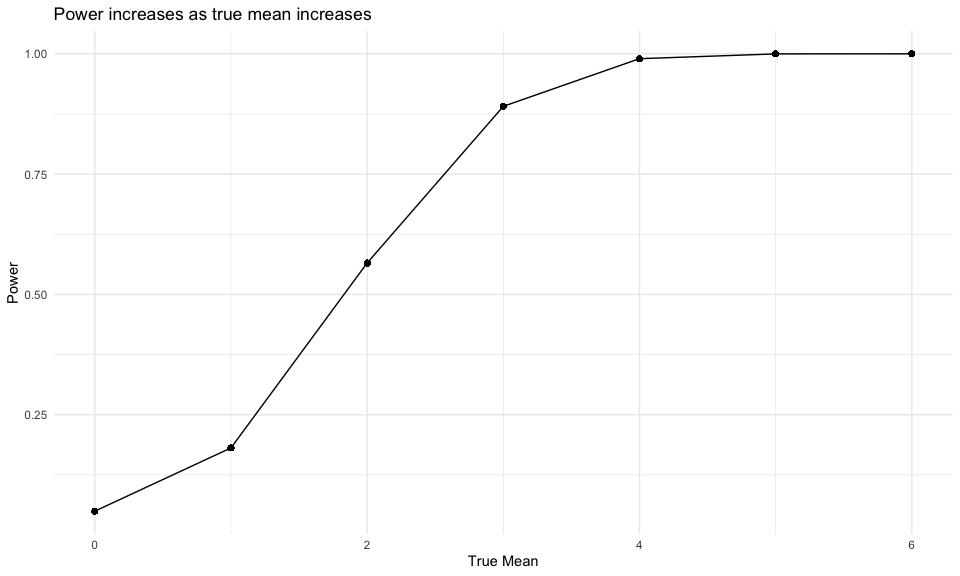
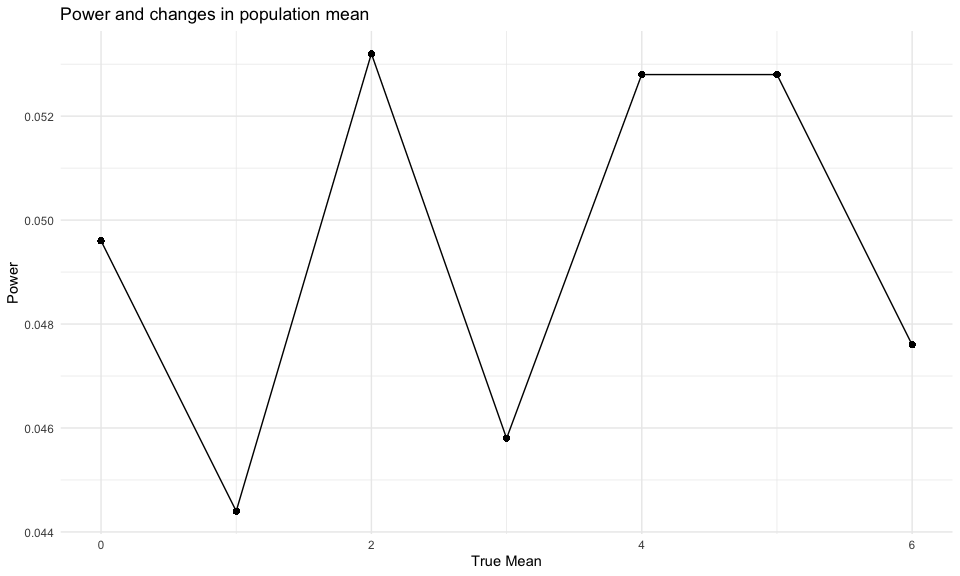
fixed map function that was incorrectly looping the mu for the ttests. This changed the interpretation of the graphs produced.

diff --git a/p8105_hw5_crd2162.md b/p8105_hw5_crd2162.md
@@ -180,15 +180,14 @@ print(subject_graph)
 In this problem, we will conduct a simulation to explore power in a one
 sample t-test.
 
-First, I will write a function called sim_power to create a random
+First, I will write a function called `sim_power` to create a random
 sample from a normal distribution with an n of 30, a sigma of 5, and a
-mu of 0. This function also calculates the sample mean (mu_hat) and
-sample sigma (sigma_hat). The sample is then returned as a tibble.
+mu of 0. This function also calculates the sample mean (`mu_hat`) and
+sample sigma (`sigma_hat`). The sample is then returned as a tibble.
 
 ``` r
 set.seed(1)
 
-#write a function to define parameters
 sim_power = function(n = 30, sigma = 5, mu = 0){
   sim_data = tibble(
     x = rnorm(n, mean = mu, sd = sigma),
@@ -206,10 +205,9 @@ sim_power = function(n = 30, sigma = 5, mu = 0){
 
 Then, I will use map to conduct 5000 iterations of the function above.
 The results of the iterations are saved as a dataframe called
-sim_results.
+`sim_results`.
 
 ``` r
-#create dataset including 5000 iterations of function above
 sim_results =
   expand_grid(
     n = 30,
@@ -220,16 +218,15 @@ sim_results =
   )
 ```
 
-I will then write a function called sim_power_repeat in which the same
+I will then write a function called `sim_power_repeat` in which the same
 5000 iterations can be done, except the mu can be changed. This function
 also maps a tidied t-test to the 5000 iterations. It is a test of the
 hypothesis of mu = 0 using alpha = 0.05. The outputs from the t-tests
 are saved as a dataframe called estimates which are then unnested by the
 function. The unnested results of the t-tests on the iterations in this
-function are returned as “df”.
+function are returned as `df`.
 
 ``` r
-#write function to run t test. Mu can be changed.
 sim_power_repeat = function(mu) {
   df = expand_grid(
     n = 30,
@@ -237,7 +234,7 @@ sim_power_repeat = function(mu) {
   ) |> 
   mutate(
     population_mean = mu,
-    estimate_df = map(n, sim_power),
+    estimate_df = map2(n, mu, \(n, mu) sim_power(n = n, mu = mu)),
     estimates = map(estimate_df, ~ broom::tidy(t.test(.x, mu = mu)))
   ) |> 
   unnest(c(estimates))
@@ -246,12 +243,11 @@ sim_power_repeat = function(mu) {
 ```
 
 Now we run the sim_power_repeat function using map. In the chunk below,
-the sim_power_repeat function is mapped to 7 different iterations of mu
-(mu = 0:6). The 7 different iterations are then combined used bind_rows
-and consolidated into a dataframe called final_sim_results.
+the `sim_power_repeat` function is mapped to 7 different iterations of
+mu (mu = 0:6). The 7 different iterations are then combined used
+bind_rows and consolidated into a dataframe called `final_sim_results`.
 
 ``` r
-#run t test function nfor 7 different mu and combine outputs
 final_sim_results =   
   map(0:6, ~ sim_power_repeat(.x)) |> 
   bind_rows()
@@ -282,8 +278,9 @@ final_sim_results |>
 
 Now I will create a plot that shows the proportion of times the null was
 rejected (`power`) on the y axis and the true value of mu on the x axis.
-This plot shows that as the true population mean (the effect size)
-increases, so does the power.
+There is no linear pattern to the changes in power with changes in
+population mean in this graph. This seems to indicate that changes in
+power are due to random variation in the sampling.
 
 ``` r
 sim_plot_1 =
@@ -291,7 +288,7 @@ final_sim_clean |>
 ggplot(aes(x = population_mean, y = power))+
 geom_point()+
 geom_line() +
-labs(title = "Power increases as true mean increases", x = "True Mean", y = "Power")
+labs(title = "Power and changes in population mean", x = "True Mean", y = "Power")
 
 print(sim_plot_1)
 ```
@@ -299,9 +296,9 @@ print(sim_plot_1)
 <img src="p8105_hw5_crd2162_files/figure-gfm/unnamed-chunk-15-1.png" width="90%" />
 
 Next, we’ll make a plot showing the average estimate of mu_hat on the y
-axis and the true value of the population mean on the x axis. There does
-not appear to be a linear pattern to the average estiamte of mu hat as
-the population mean increases.
+axis and the true value of the population mean on the x axis. There is a
+strong linear pattern to this graph; as the population mean increases by
+one unit, the average estimate of mu hat increases by one unit.
 
 ``` r
 sim_plot_2 =
@@ -318,15 +315,15 @@ print(sim_plot_2)
 
 Lastly, we’ll create a plot that shows the average estimate of mu hat
 only in samples for which the null was rejected on the y axis and the
-true value of mu on the x axis. This plot looks almost the same as the
-second plot created above, despite the fact that it only includes sample
-means from in which the null hypothesis was rejected. It does not appear
-that the sample average of mu hat across tests for which the null is
-rejected approximates the true value of mu. The sample average of mu hat
-across tests is very close to 0. This is likely because the effect size
-and sample size are both very small for this simulation, reducing the
-power. A higher level of power is necessary to reject a false null
-hypothesis.
+true value of mu on the x axis. This plot looks identical to the second
+plot created above, despite the fact that it only includes sample means
+from in which the null hypothesis was rejected. This indicates that the
+average estimate of mu hat for samples in which the null hypothesis is
+rejected is approximately the same as the population mean. This is
+because we conducted a large random sampling simulation of over 5000
+samples per population mean. With large numbers of sampling from the
+same underlying population, we expect the statistic to closely
+approximate the parameter.
 
 ``` r
 sim_plot_3 =
